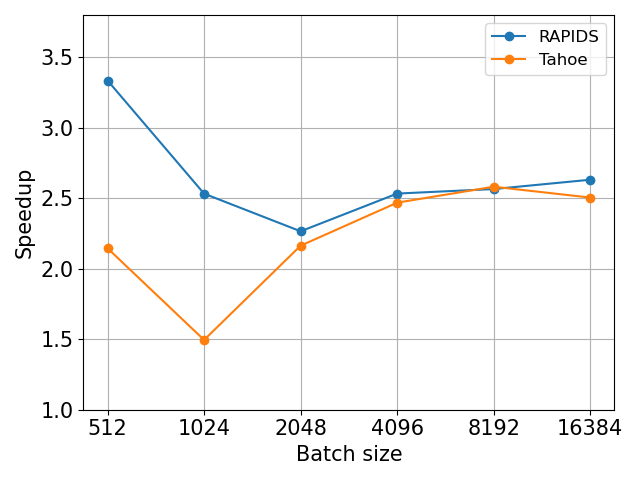
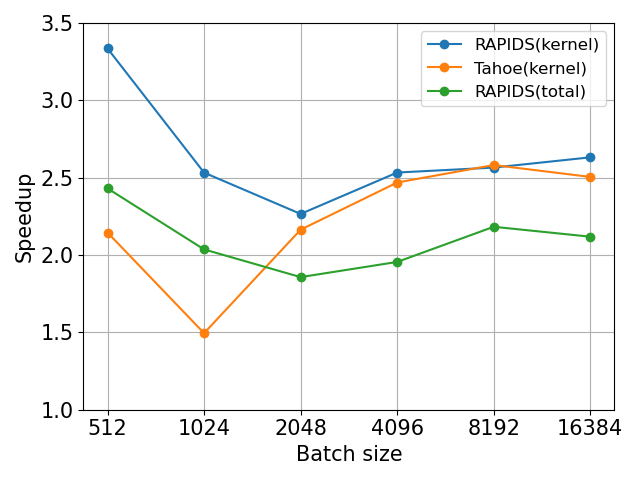
Add amd graphs, update other graphs after discussion

diff --git a/results/python/analyze_gpu_speedups_results.py b/results/python/analyze_gpu_speedups_results.py
@@ -8,10 +8,12 @@ from scipy.stats import gmean
 results_4060_df = pd.read_csv('../4060_thedeep_results.csv')
 results_t400_df = pd.read_csv('../T400_holmes_results.csv')
 fullexp_vs_at_df = pd.read_csv('../fullexp_vs_at.csv')
+results_amdmi2160_df = pd.read_csv('../AMDMI2160_results.csv')
 
 results_4060_df = results_4060_df[results_4060_df['Batch size'] != 256]
 results_t400_df = results_t400_df[results_t400_df['Batch size'] != 256]
 fullexp_vs_at_df = fullexp_vs_at_df[fullexp_vs_at_df['Batch size'] != 256]
+results_amdmi2160_df = results_amdmi2160_df[results_amdmi2160_df['Batch size'] != 256]
 
 PLOT_FILE_EXTENSION = 'png'
 AXIS_FONT_SIZE = 15
@@ -136,14 +138,16 @@ def plot_bar_graph_speedups_for_batch_size(df, batch_size, kwargs=None):
 
 
 class LineGraphPlotter:
-    def __init__(self, gpu_name, file_name_suffix, lower_lim = 1, upper_lim = 1) -> None:
+    def __init__(self, gpu_name, file_name_suffix, lower_lim = 1, upper_lim = 1, round_up=True) -> None:
         self.gpu_name = gpu_name
         self.file_name_suffix = file_name_suffix
         _, self.ax = plt.subplots()
         self.ylim = (lower_lim, upper_lim)
+        self.round_up = round_up
 
     def plot_geomean_speedups_over_batch_size(self, df, tb_time_col, compare_time_cols, line_labels):
         batch_sizes = df['Batch size'].unique()
+        batch_sizes.sort()
         speedups = []
 
         assert(len(compare_time_cols) == len(line_labels))
@@ -167,7 +171,8 @@ class LineGraphPlotter:
         min_speedup = min([min(speedup) for speedup in speedups])
         diff = min_speedup - np.floor(min_speedup)
         lower_lim = np.floor(min_speedup) if diff <= 0.5 else np.floor(min_speedup) + 0.5
-        upper_lim = round(max([max(speedup) for speedup in speedups]) + 0.5, 1)
+        max_speedup = max([max(speedup) for speedup in speedups])
+        upper_lim = max_speedup if not self.round_up else round(max_speedup) + 0.5
         self.ylim = (min(self.ylim[0], lower_lim), max(self.ylim[1], upper_lim))
 
         # enable grid.
@@ -205,18 +210,19 @@ line_graph_plotter.plot_geomean_speedups_over_batch_size(results_4060_df, 'TB (A
 line_graph_plotter.save_plot()
 
 line_graph_plotter = LineGraphPlotter('T400', 'kernel_time')
-line_graph_plotter.plot_geomean_speedups_over_batch_size(results_t400_df, 'TBKernel(AT)', ['RAPIDS(kernel)', 'Tahoe(kernel)'], ['RAPIDS', 'Tahoe'])
+line_graph_plotter.plot_geomean_speedups_over_batch_size(results_t400_df, 'TBKernel(AT)', ['RAPIDS(kernel)', 'Tahoe(kernel)'], ['RAPIDS(kernel)', 'Tahoe(kernel)'])
+line_graph_plotter.plot_geomean_speedups_over_batch_size(results_t400_df, 'TB(AT)', ['RAPIDS(Total)'], ['RAPIDS(total)'])
 line_graph_plotter.save_plot()
 
-line_graph_plotter = LineGraphPlotter('T400', '4060_vs_T400', lower_lim=0.5)
-line_graph_plotter.plot_geomean_speedups_over_batch_size(results_t400_df, 'TB(AT)', ['TB(4060)'], ['4060 schedule vs Auto-Tuned schedule'])
-line_graph_plotter.save_plot()
-
-line_graph_plotter = LineGraphPlotter('4060', 'best_vs_at')
-line_graph_plotter.plot_geomean_speedups_over_batch_size(results_4060_df, 'TB (AT)', ['TB'], ['Auto-Tuned vs Best'])
+line_graph_plotter = LineGraphPlotter('T400', '4060_vs_T400', lower_lim=1)
+line_graph_plotter.plot_geomean_speedups_over_batch_size(results_t400_df, 'TBKernel(AT)', ['TBKernel(4060)'], ['Scheduling heuristic(T400) vs Best 4060 schedule'])
+line_graph_plotter.plot_geomean_speedups_over_batch_size(results_4060_df, 'TBKernel(AT)', ['TBKernel'], ['Scheduling heuristic(4060) vs Best 4060 schedule'])
 line_graph_plotter.save_plot()
 
 line_graph_plotter = LineGraphPlotter('4060', 'full_exp_vs_at', lower_lim=1, upper_lim=110)
 line_graph_plotter.plot_geomean_speedups_over_batch_size(fullexp_vs_at_df, 'AT', ['FullExplore'], [' Auto-Tuning vs Full Explore'])
 line_graph_plotter.save_plot()
 
+line_graph_plotter = LineGraphPlotter('AMDMI2160', '4060_vs_MI2160', lower_lim=1, upper_lim=1.6, round_up=False)
+line_graph_plotter.plot_geomean_speedups_over_batch_size(results_amdmi2160_df, 'TBKernel(MI2160)', ['TBKernel(4060)'], ['Scheduling heuristic(MI2160) vs Best 4060 schedule'])
+line_graph_plotter.save_plot()
